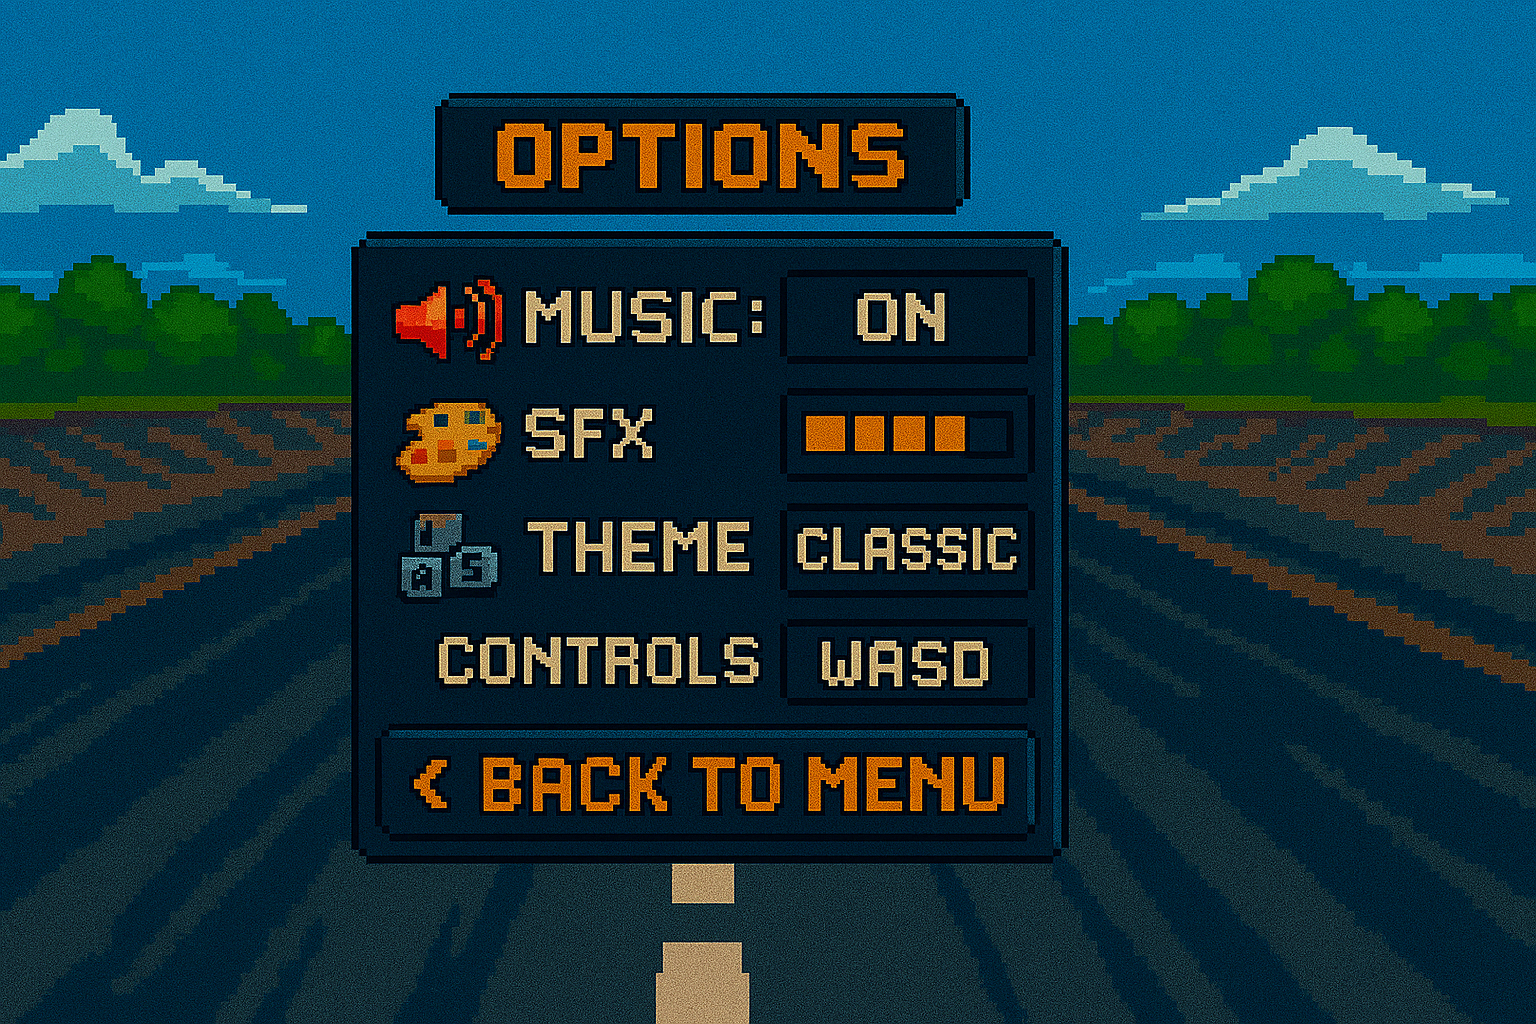
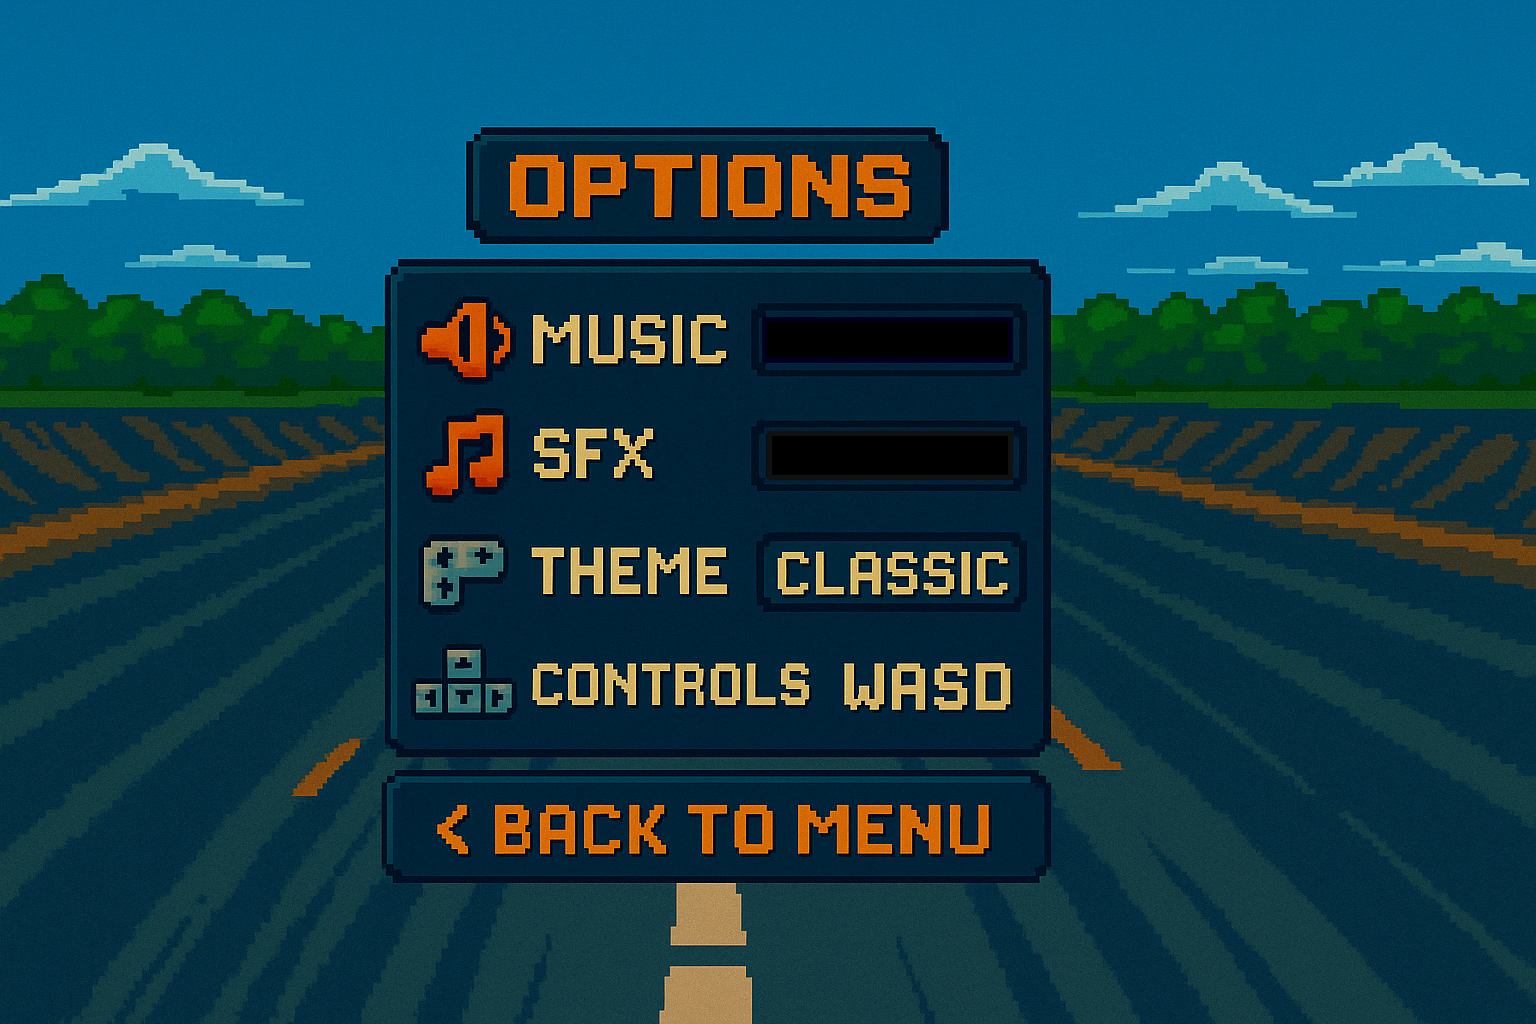
Fix sound change in the options menu

diff --git a/source/game.c b/source/game.c
@@ -11,9 +11,7 @@ typedef enum
     MENU,
     OPTIONS,
     MULTIPLAYER,
-    PLAYING,
-    MUTE,
-    UNMUTE
+    PLAYING
 } GameMode;
 
 // Hjälpfunktion: hämtar rätt tile från tileset utifrån ID
@@ -74,6 +72,8 @@ void renderTrackAndObjects(SDL_Renderer *pRenderer, SDL_Texture **pTiles, int ti
     }
 }
 
+
+
 void gameLoop(GameResources *pRes)
 {
     int isMuted = 0; // 0 = ljud, 1 = ljud av
@@ -81,6 +81,11 @@ void gameLoop(GameResources *pRes)
     bool isRunning = true;
     GameMode mode = MENU;
     int hoveredButton = -1;
+    int musicVolumeLevel = 4; // 0 (ljud av) to 4 (max)
+    int sfxLevel = 4;    // 0(sfx av) to 4 (max)
+    int musicVolumes[5] = {0, 32, 64, 96, 128}; // ljud inställning
+    int sfxVolumes[5] = {0, 32, 64, 96, 128}; // ljud inställning
+
 
     // Initiera kameror
     pRes->camera1 = (Camera){0, 0, WIDTH, HEIGHT};
@@ -175,6 +180,43 @@ void gameLoop(GameResources *pRes)
                     SDL_Log("Change to meny-mode");
                 }
             }
+
+            if (event.type == SDL_MOUSEBUTTONDOWN && mode == OPTIONS)
+            {
+                int x = event.button.x;
+                int y = event.button.y;
+
+                if (SDL_PointInRect(&(SDL_Point){x, y}, &pRes->musicVolumeRect))
+                {
+                    int segmentWidth = pRes->musicVolumeRect.w / 5;
+                    int clickedSegment = (x - pRes->musicVolumeRect.x) / segmentWidth;
+
+                    if (clickedSegment < 0) clickedSegment = 0;
+                    if (clickedSegment > 4) clickedSegment = 4;
+
+                    musicVolumeLevel = clickedSegment;
+                    Mix_VolumeMusic(musicVolumes[musicVolumeLevel]);
+
+                    printf("Music volume set to level %d (%d)\n", musicVolumeLevel, musicVolumes[musicVolumeLevel]);
+                }
+                if (SDL_PointInRect(&(SDL_Point){x, y}, &pRes->SfxRect))
+                {
+                    int segmentWidth = pRes->SfxRect.w / 5;
+                    int clickedSegment = (x - pRes->SfxRect.x) / segmentWidth;
+
+                    if (clickedSegment < 0) clickedSegment = 0;
+                    if (clickedSegment > 4) clickedSegment = 4;
+
+                    sfxLevel = clickedSegment;
+                    Mix_VolumeMusic(sfxVolumes[sfxLevel]);
+
+                    printf("Music volume set to level %d (%d)\n",sfxLevel, sfxVolumes[sfxLevel]);
+                }
+                if (SDL_PointInRect(&(SDL_Point){x, y}, &pRes->backRect)){
+                    mode = MENU;
+                    SDL_Log("Change to meny-mode");
+                }
+            }
         }
 
         SDL_RenderClear(pRes->pRenderer);
@@ -197,9 +239,6 @@ void gameLoop(GameResources *pRes)
                 SDL_SetTextureColorMod(pRes->pUnmuteTexture, hoveredButton == 4 ? 200 : 255, hoveredButton == 4 ? 200 : 255, 255);
             }
             
-            
-
-
             SDL_RenderCopy(pRes->pRenderer, pRes->pStartTexture, NULL, &pRes->startRect);
             SDL_RenderCopy(pRes->pRenderer, pRes->pMultiplayerTexture, NULL, &pRes->multiplayerRect);
             SDL_RenderCopy(pRes->pRenderer, pRes->pOptionsTexture, NULL, &pRes->optionsRect);
@@ -238,6 +277,42 @@ void gameLoop(GameResources *pRes)
         else if (mode == OPTIONS)
         {
             SDL_RenderCopy(pRes->pRenderer, pRes->pOptionsMenuTex, NULL, NULL);
+            SDL_RenderCopy(pRes->pRenderer, pRes->pBackToMenuTexture, NULL, &pRes->backRect);
+
+            for (int i = 0; i < 5; i++)
+            {
+                SDL_Rect block = {
+                    pRes->musicVolumeRect.x + i * (pRes->musicVolumeRect.w / 5),
+                    pRes->musicVolumeRect.y,
+                    (pRes->musicVolumeRect.w / 5) - 4,
+                    pRes->musicVolumeRect.h
+                };
+
+                SDL_SetRenderDrawColor(pRes->pRenderer, 255, 128, 0, 255); // orange fill
+
+                if (i <= musicVolumeLevel)
+                    SDL_RenderFillRect(pRes->pRenderer, &block);
+                else
+                    SDL_SetRenderDrawColor(pRes->pRenderer, 30, 30, 30, 255); // empty bar
+                    SDL_RenderFillRect(pRes->pRenderer, &block);
+            }
+            for (int i = 0; i < 5; i++)
+            {
+                SDL_Rect block = {
+                    pRes->SfxRect.x + i * (pRes->SfxRect.w / 5),
+                    pRes->SfxRect.y,
+                    (pRes->SfxRect.w / 5) - 4,
+                    pRes->SfxRect.h
+                };
+
+                SDL_SetRenderDrawColor(pRes->pRenderer, 255, 128, 0, 255); // orange fill
+
+                if (i <= sfxLevel)
+                    SDL_RenderFillRect(pRes->pRenderer, &block);
+                else
+                    SDL_SetRenderDrawColor(pRes->pRenderer, 30, 30, 30, 255); // empty bar
+                    SDL_RenderFillRect(pRes->pRenderer, &block);
+            }
         }
         else if (mode == MULTIPLAYER)
         {

diff --git a/source/resources.c b/source/resources.c
@@ -89,7 +89,7 @@ bool loadResources(GameResources *pRes)
     {
         printf("Failed to load mute button image: %s\n", IMG_GetError());
         return false;
-    }
+    }   
     // omvandla textur och hantera fel...
     pRes->pMuteTexture = SDL_CreateTextureFromSurface(pRes->pRenderer, pMuteSurface);
     SDL_FreeSurface(pMuteSurface);
@@ -100,23 +100,41 @@ bool loadResources(GameResources *pRes)
         return false;
     }
 
-        // skapa unmute knappen texure....
-        SDL_Surface *pUnmuteSurface = IMG_Load("resources/images/unmute.png");
-        if (!pUnmuteSurface)
-        {
-            printf("Failed to load unmute button image: %s\n", IMG_GetError());
-            return false;
-        }
-        // omvandla textur och hantera fel...
-        pRes->pUnmuteTexture = SDL_CreateTextureFromSurface(pRes->pRenderer, pUnmuteSurface);
-        SDL_FreeSurface(pUnmuteSurface);
+    // skapa unmute knappen texure....
+    SDL_Surface *pUnmuteSurface = IMG_Load("resources/images/unmute.png");
+    if (!pUnmuteSurface)
+    {
+        printf("Failed to load unmute button image: %s\n", IMG_GetError());
+        return false;
+    }
+    // omvandla textur och hantera fel...
+    pRes->pUnmuteTexture = SDL_CreateTextureFromSurface(pRes->pRenderer, pUnmuteSurface);
+    SDL_FreeSurface(pUnmuteSurface);
     
-        if (!pRes->pUnmuteTexture)
-        {
-            printf("Failed to create unmute button texture: %s\n", SDL_GetError());
-            return false;
-        }
+    if (!pRes->pUnmuteTexture)
+    {
+        printf("Failed to create unmute button texture: %s\n", SDL_GetError());
+        return false;
+    }
 
+    //Skapa "back to menu" knapp...
+    SDL_Surface *pBackSurface = IMG_Load("resources/images/backtomenu.png");
+    if (!pBackSurface)
+    {
+        printf("Failed to load mute button image: %s\n", IMG_GetError());
+        return false;
+    }
+    // omvandla textur och fel hantering...
+    pRes->pBackToMenuTexture = SDL_CreateTextureFromSurface(pRes->pRenderer, pBackSurface);
+    SDL_FreeSurface(pBackSurface);
+
+    if (!pRes->pBackToMenuTexture)
+    {
+        printf("Failed to create /back to menu/ button texture: %s\n", SDL_GetError());
+        return false;
+    }
+
+    
     
     // bredd x höjd "Start,Multi...."
     pRes->startRect = (SDL_Rect){830, 505, 340, 60};
@@ -124,6 +142,11 @@ bool loadResources(GameResources *pRes)
     pRes->optionsRect = (SDL_Rect){830, 665, 180, 60};
     pRes->exitRect = (SDL_Rect){1015, 665, 160, 60};
     pRes->muteRect = (SDL_Rect){1250, 665, 60, 60};
+    pRes->musicVolumeRect = (SDL_Rect){680, 240, 220, 30};
+    pRes->backRect = (SDL_Rect){340, 580, 590, 90};
+    pRes->SfxRect = (SDL_Rect){680, 329, 220, 30};
+
+
 
 
     // ladda musiken och hantera fel.

diff --git a/include/game.h b/include/game.h
@@ -39,6 +39,7 @@ typedef struct
     SDL_Texture *pMultiplayerMenuTex; // "Multiplayer selected"- textur
     SDL_Texture *pMuteTexture;        // "Mute" textur
     SDL_Texture *pUnmuteTexture;      // "Unmute" textur
+    SDL_Texture *pBackToMenuTexture;   // "Back to menu" textur.....
     SDL_Texture *pTiles[NUM_TILES];   // Alla separata bilder (90 st)
     SDL_Texture *ptilesetTexture;     // Innehåller hela Tileseten
 
@@ -49,6 +50,9 @@ typedef struct
     SDL_Rect multiplayerRect; // Rektangel för multispelare-knappen
     SDL_Rect optionsRect;     // Rektangel för inställning-knappen
     SDL_Rect muteRect;        // Rektangel för mute-knappen
+    SDL_Rect backRect;        // Rektangel för backtomenu-knappen
+    SDL_Rect musicVolumeRect; // Rektangel för musik stapel
+    SDL_Rect SfxRect;         // Rektangel för SFX stapel
 
     Car car1, car2;                   // initiera bilar.
     Camera camera1;                   // Kamera för spelare 1
